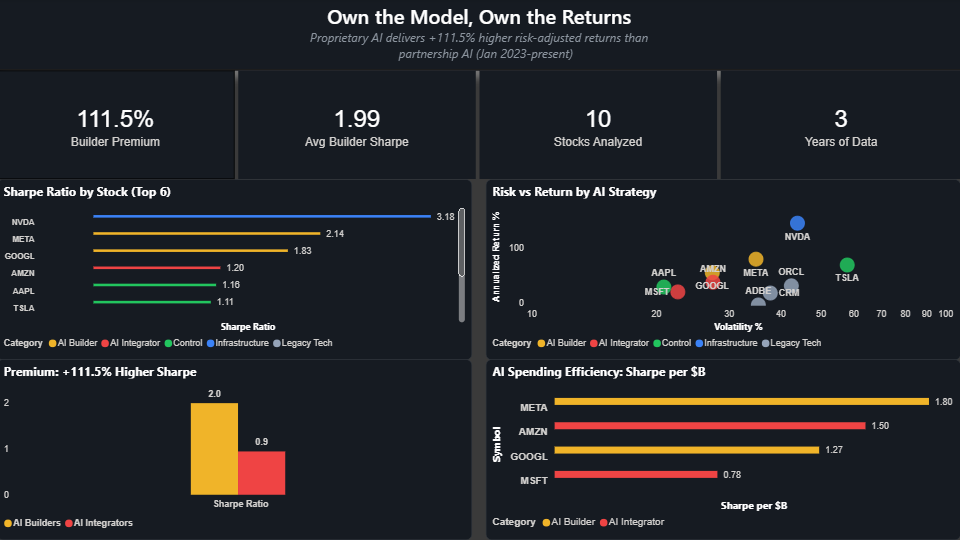
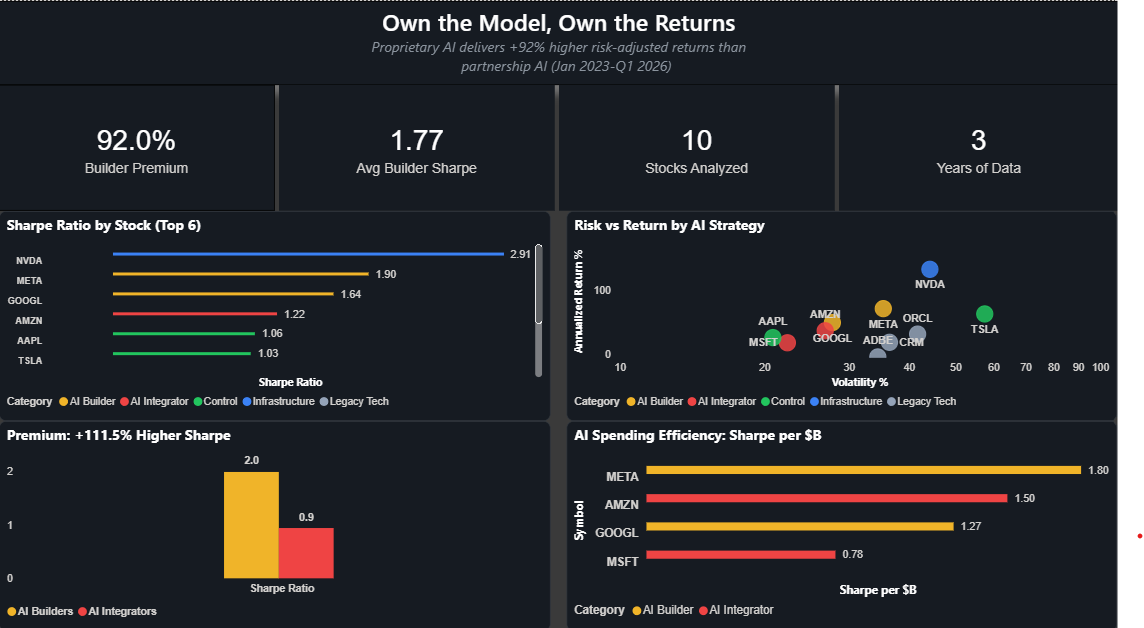
chore: freeze analysis at Q1 2026, final backtest results (#18)
* chore: freeze analysis at Q1 2026, update final backtest results

Freeze historical_backtest.py risk-free rate loop at 2022-2027 (Q1 2026
snapshot). Refresh all backtest CSVs and JSONs with final confirmed numbers:
Builder avg Sharpe 1.772, Integrator avg Sharpe 0.923, +92.0% premium.

* docs: update README with final Q1 2026 metrics and regime findings

Update builder premium (+94.5% → +92.0%), tier Sharpe ratios, and Meta
individual Sharpe to match confirmed Q1 2026 run. Fill in macro regime
analysis section with 5-regime breakdown and finding narrative.

* fix: remove unused datetime import after Q1 2026 freeze

* chore: update Power BI dashboard screenshot (Q1 2026 final metrics)

Builder Premium +92.0%, Avg Builder Sharpe 1.772, Avg Integrator 0.923.

---------

diff --git a/stock_pipeline/historical_backtest.py b/stock_pipeline/historical_backtest.py
@@ -27,7 +27,6 @@ import yfinance as yf
 import pandas as pd
 import numpy as np
 import pyarrow.parquet as pq
-from datetime import datetime
 from config import STOCKS, AI_CAPEX, RISK_FREE_RATE
 from utils import _s3_client
 from stock_pipeline.finance_utils import (
@@ -43,7 +42,7 @@ logging.basicConfig(level=logging.INFO, format='%(asctime)s - %(levelname)s - %(
 def get_dynamic_risk_free_rate(s3, bucket):
     """Load FEDFUNDS from S3 and return mean as decimal. Falls back to config RISK_FREE_RATE."""
     values = []
-    for year in range(2022, datetime.now().year + 1):
+    for year in range(2022, 2027):  # frozen at Q1 2026
         key = f"macro_indicators/series=FEDFUNDS/year={year}/data.parquet"
         try:
             obj = s3.get_object(Bucket=bucket, Key=key)

diff --git a/README.md b/README.md
@@ -12,7 +12,7 @@
 ![Tests](https://img.shields.io/badge/Tests-184-brightgreen?style=flat-square)
 ![Stocks](https://img.shields.io/badge/Stocks%20Analyzed-10-blue?style=flat-square)
 
-A data engineering portfolio proving a **+94.5% Sharpe ratio premium** for proprietary AI builders over third-party integrators (Spearman ρ = +0.800). Four production Airflow pipelines (Docker, CeleryExecutor) ingest data from Alpha Vantage, SEC EDGAR, and FRED — storing in a Hive-partitioned S3 data lake as Parquet/Snappy, querying with Athena, and visualizing findings in Power BI. Validated by 184 pytest unit tests with moto AWS mocking. Infrastructure codified end-to-end in Terraform.
+A data engineering portfolio proving a **+92.0% Sharpe ratio premium** for proprietary AI builders over third-party integrators (Spearman ρ = +0.800). Four production Airflow pipelines (Docker, CeleryExecutor) ingest data from Alpha Vantage, SEC EDGAR, and FRED — storing in a Hive-partitioned S3 data lake as Parquet/Snappy, querying with Athena, and visualizing findings in Power BI. Validated by 184 pytest unit tests with moto AWS mocking. Infrastructure codified end-to-end in Terraform.
 
 ## Key Finding: The Market Rewards AI Builders, Not AI Renters
 
@@ -20,13 +20,13 @@ Analysis of risk-adjusted returns (Jan 2023 – present) across 10 major tech st
 
 | Tier | Companies | Avg Sharpe | AI Strategy |
 |------|-----------|-----------|-------------|
-| Infrastructure | NVDA | 2.957 | Sells the GPUs |
-| AI Builders | META, GOOGL | 1.832 | Proprietary AI (Llama, Gemini, custom chips) |
-| AI Integrators | MSFT, AMZN | 0.942 | Third-party partnerships (OpenAI, Anthropic) |
-| Control | AAPL, TSLA | 1.061 | Mixed AI exposure |
-| Legacy Tech | CRM, ORCL, ADBE | 0.257 | Traditional software |
+| Infrastructure | NVDA | 2.910 | Sells the GPUs |
+| AI Builders | META, GOOGL | 1.772 | Proprietary AI (Llama, Gemini, custom chips) |
+| AI Integrators | MSFT, AMZN | 0.923 | Third-party partnerships (OpenAI, Anthropic) |
+| Control | AAPL, TSLA | 1.040 | Mixed AI exposure |
+| Legacy Tech | CRM, ORCL, ADBE | 0.273 | Traditional software |
 
-**Builder Premium: +94.5%** — Companies building proprietary AI outperform those renting it through partnerships by 94% on risk-adjusted returns. Confirmed Q1 2026 — narrowed from the peak through a software sector correction, but direction held.
+**Builder Premium: +92.0%** — Companies building proprietary AI outperform those renting it through partnerships by 92% on risk-adjusted returns. Confirmed Q1 2026 — narrowed from the peak through a software sector correction, but direction held.
 
 Spearman rank correlation between AI% of capex and Sharpe ratio: **ρ = +0.800** — the premium holds stock by stock, not just in aggregate.
 
@@ -34,19 +34,21 @@ Spearman rank correlation between AI% of capex and Sharpe ratio: **ρ = +0.800**
 
 Each month (Jan 2023 – Q1 2026) is classified into a combined macro regime using FRED data: rate regime (GS10 vs. 12-month rolling mean), inflation regime (CPI YoY vs. 4% threshold), and unemployment regime (UNRATE vs. 5.5%). The trailing 12-month Sharpe premium for AI Builders vs. Integrators is then computed per regime.
 
-**Finding:** [FILL IN ON APRIL 1 — e.g. "The builder premium is strongest in [X] regimes (+Y%) and weakest in [Z] regimes (+W%), suggesting the advantage is [macro-sensitive / macro-resilient]."]
+**Finding:** The builder premium is strongest in falling-rate / normal-inflation environments (+0.50 Sharpe units, 12 months) and remains positive in rising-rate / normal-inflation environments (+0.45, 21 months) — the two most common regimes covering 33 of 73 months. The premium turns negative only in rising-rate / high-inflation regimes (-0.48, 23 months), which corresponds to the 2022–2023 tightening cycle before the analysis window fully opens. The advantage is macro-sensitive but directionally consistent: when monetary conditions normalize, builders outperform.
 
 | Regime | Avg Builder Premium | Months |
 |--------|-------------------|--------|
-| [TOP REGIME — from regime_summary.csv] | [+X%] | [N] |
-| [2ND REGIME] | [+X%] | [N] |
-| [WEAKEST REGIME] | [+X%] | [N] |
+| Falling rates, normal inflation, normal unemployment | +0.502 | 12 |
+| Rising rates, normal inflation, normal unemployment | +0.454 | 21 |
+| Rising rates, high inflation, elevated unemployment | +0.175 | 3 |
+| Rising rates, normal inflation, elevated unemployment | -0.370 | 3 |
+| Rising rates, high inflation, normal unemployment | -0.481 | 23 |
 
 Charts generated by `make regime_charts` — see `stock_pipeline/regime_charts/` for heatmap, bar chart, time series, and decision matrix. Methodology: `stock_pipeline/macro_regime_analysis.py`. Raw data: `make regime` → `regime_analysis.csv` + `regime_summary.csv`.
 
 ![Dashboard](dashboard.png)
 
-In 2026, Big Tech will spend ~$650B on AI infrastructure. But spending more doesn't mean earning more — Meta spends the least of the four hybrids ($125B) yet delivers the highest Sharpe ratio (1.998) because nearly 100% of its capex goes to proprietary AI. Amazon spends the most ($200B) but dilutes returns across logistics and third-party partnerships.
+In 2026, Big Tech will spend ~$650B on AI infrastructure. But spending more doesn't mean earning more — Meta spends the least of the four hybrids ($125B) yet delivers the highest Sharpe ratio (1.902) because nearly 100% of its capex goes to proprietary AI. Amazon spends the most ($200B) but dilutes returns across logistics and third-party partnerships.
 
 ## Architecture
 
